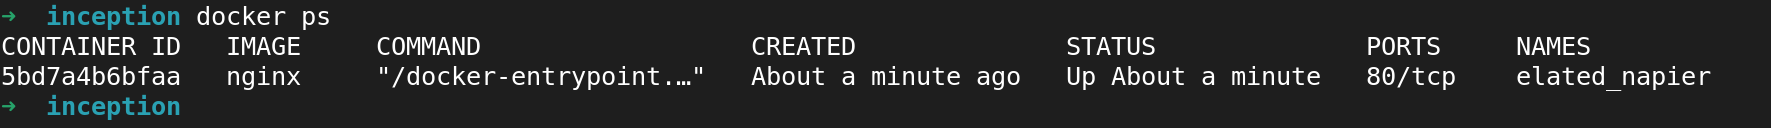
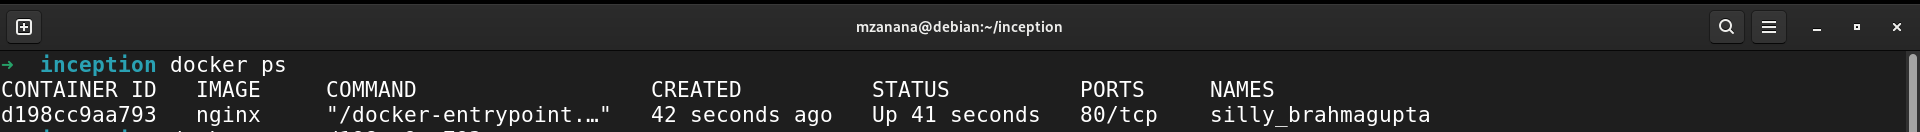
Docker commands: + docker images; + docker imi; + docker pull; + docker exec.
and update previous images

diff --git a/Readme.md b/Readme.md
@@ -200,11 +200,18 @@ The main purpose of docker is to package and containerize applications, and to s
 There is a lot of containerized versions of applications available, most organizations have theire own containerized and available in public docker repository called **Docker Hub** or **Docker Store**, we can find images of most operating systems, databases and other services and tools, to run an instance of debian you need just to type in the command line after installing docker on the host machine :   
 `docker run debian`   
 
-### containers and images
-We've talk about images here, what is the difference between images and containers ?  
-An image is a package and a template, it is used to create one or more containers.   
+### images and containers
+<p align=center>
+	<img src="./images/images.png" width=400>
+</p>
+
+We've talk about images in the last part, but what is the difference between images and containers ?  
+An image is a package or a template, it is used to create one or more containers.   
 Containers are running instances of images that are isolated and have their own environment and set of processes.   
 
+We gonna see later the command line `docker run <image>`, when you type this line in the command line interface, Docker create two two things :  
++ **The process (on RAM) :**  Container is a running linux process, executing instructions on the CPU, isolated by namespaces and cgroups;  
++ **The writable layer (on Disk) :** Since the image is locked and stricktly read-only, Docker create a thin invisible "writable layer" on the top of the image, any new file the container creates or file edited are stored inside the temporary writable layer.  
 
 ## Docker Editions
 ### Entreprise Edition
@@ -226,7 +233,7 @@ Docker automatically by default give to each container a random ID and a random 
 <p align=center>
 	<img src="./images/ps.png">
 </p>
-
+![[Pasted image 20260903144109.png]]
 To see all containers running or not we simply use the tag `-a` , so the command is : `docker ps -a` <p align=center>
 	<img src="./images/ps -a.png">
 </p>
@@ -237,4 +244,37 @@ If we want to stop a running container we use the command `docker run <name or I
 <p align=center>
 	<img src="./images/stop.png">
 </p>
-And if we want to delete it completely from 
+
+And if we want to delete it completely for a good reason like stoping it from consumig space, we use now the command :  
+`docker rm <Id or Name>`  
+<p align=center>
+	<img src="./images/rm.png">
+</p>
+
+### docker images / rmi
+This command list all the images available and theire sizes :  
+<p align=center>
+	<img src="./images/docker images.png" width=500>
+</p>
+
+If we want to remove an image from the host, first of all we need to make sure that all the dependent containers are stopped and deleted to be able to delete the images, then use the command :  
+`docker rmi nginx`  
+<p align=center>
+	<img src="./images/docker rmi.png" width=500>
+</p>
+
+### docker pull
+`docker pull` command only **downloads** the image and stops, it doesn't run any container.  
+When to use `docker pull` :  
++ For example you want to run a ubuntu application and you forget that you already have an image in your host about 8 months ago, when using `docker run ubuntu`, docker gonna find the image of the 8 month ago and run it.  
+  For security reasons and to make sure 100% that docker check any updates of the new versions of docker from docker-hub you must use `docker pull ubuntu` and then you can run it `docker run ubuntu`;  
++ Security reasons mind the most, if you run any image directly without checking it using `docker inspect` you end up someday running a maleware into your computer without you know it, so the best approche is to pul the image first and then analyse it using the inspect command and then run it.  
+
+
+### docker exec
+Sometimes we need to execute a command on a running container, for example we want to see the version of a filesystem using inside a running container, we should use the command :  
+`docker exec <container_name> <command_to_execute>`  
+<p align=center>
+	<img src="./images/docker exec.png" width=600>
+</p>
+
